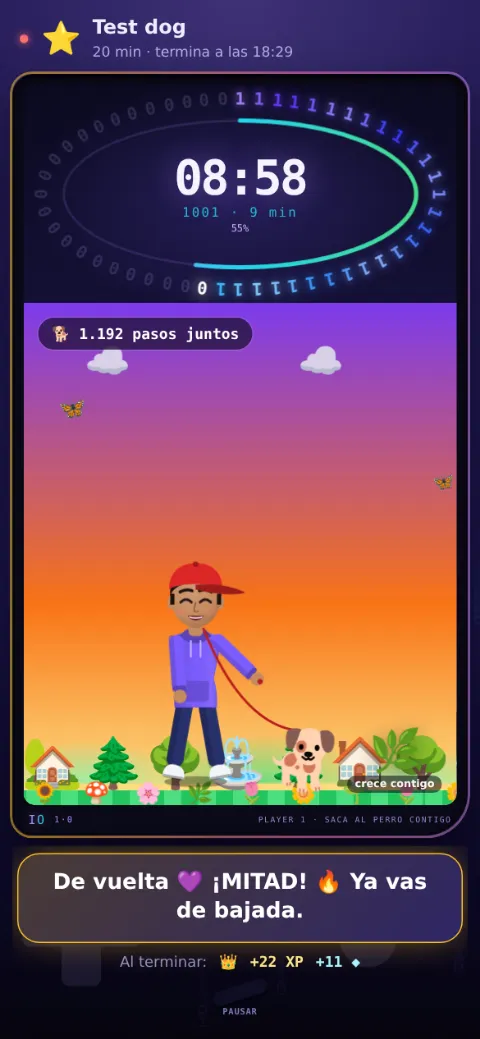
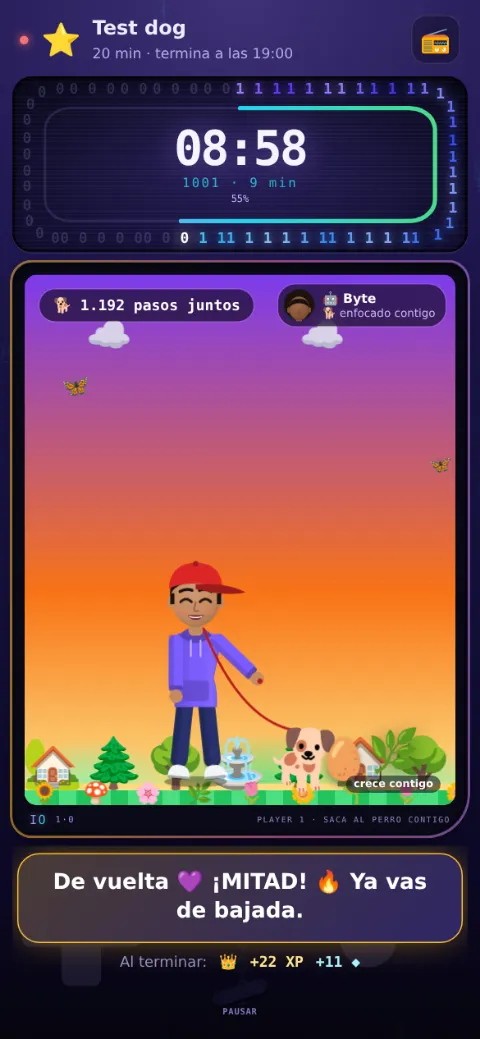
IO: rectangular 1/0 clock on the casing, scene framed as the Game Boy screen, livelier scenes, time-of-day room light
- Clock digits run around a rounded rectangle; the scene sits in its own Game Boy bezel
- Park gets sun and birds, character sways while walking; prayer rays and halo pulse; the water glass goes up and down; everyone breathes
- 'Reduce motion' no longer freezes the scenes, only abrupt effects
- Room shows dawn, day, afternoon and night (window, moon, tint, lamp glow)

Claude-Session: https://claude.ai/code/session_012Cz5XPmCCm3W7C13N57iq3

diff --git a/io/styles.css b/io/styles.css
@@ -510,7 +510,8 @@ code{font-family:var(--mono);font-size:.92em;background:var(--s3);padding:1px 5p
 .toast.show{opacity:1;transform:translate(-50%,0)}
 @media (min-width:560px){.console{margin:0;border-radius:34px 34px 0 0}}
 @media (max-width:370px){.dpad{grid-template-columns:repeat(3,33px);grid-template-rows:repeat(3,33px)}.ab button{width:46px;height:46px}.screen{height:360px}}
-@media (prefers-reduced-motion:reduce){*,*::before,*::after{animation-duration:.01ms!important;animation-iteration-count:1!important;transition-duration:.01ms!important}}
+/* con "reducir movimiento" se apagan los efectos bruscos, pero las escenas siguen vivas y más lentas */
+@media (prefers-reduced-motion:reduce){*:not(.fs):not(.fs *):not(.scene *):not(.lf):not(.bz-io),*:not(.fs *):not(.scene *)::before,*:not(.fs *):not(.scene *)::after{animation-duration:.01ms!important;animation-iteration-count:1!important;transition-duration:.01ms!important}}
 
 /* ================= Game Boy avanzado: bisagra + segunda pantalla ================= */
 .hinge{display:flex;align-items:center;gap:10px;margin:10px -2px 12px;height:22px}
@@ -1428,3 +1429,52 @@ body[data-gb="noche"] .console,body[data-gb="noche"] .focus{background:linear-gr
 body[data-gb="oro"] .console,body[data-gb="oro"] .focus{background:linear-gradient(180deg,#fbbf24 0,#b45309 360px,#78350f 700px,rgba(120,53,15,.5) calc(100% - 160px),rgba(9,9,15,0) 100%)}
 body[data-gb="arcoiris"] .console,body[data-gb="arcoiris"] .focus{background:linear-gradient(180deg,rgba(9,9,15,0),rgba(9,9,15,.4) 60%,#09090f),linear-gradient(90deg,#f472b6,#a78bfa,#22d3ee,#4ade80,#fbbf24,#f472b6);background-size:100% 100%,300% 100%;animation:logoHue 12s linear infinite}
 body[data-gb="oro"] .mid-btns button,body[data-gb="oro"] .ctl-help{color:#3b1d06}
+
+/* reloj rectangular en la carcasa + la escena es la pantalla del Game Boy */
+.fgb .fc-clock{flex-shrink:0;height:clamp(118px,17vh,160px);border-radius:16px;background:radial-gradient(ellipse 70% 90% at 50% 50%,rgba(124,92,255,.22),transparent 72%),linear-gradient(180deg,#0b0a1f,#141035);box-shadow:inset 0 2px 10px rgba(0,0,0,.85),inset 0 0 0 2px rgba(0,0,0,.6),0 1px 0 rgba(255,255,255,.1)}
+.fgb .fc-clock::after{content:'';position:absolute;inset:0;border-radius:inherit;pointer-events:none;background:repeating-linear-gradient(0deg,rgba(255,255,255,.03) 0 1px,transparent 1px 3px)}
+.fgb .fc-clock .fc-time{font-size:clamp(34px,10vw,48px)}
+.fgb-bezel{padding:10px 10px 6px}
+.fgb-screen{box-shadow:inset 0 0 0 2px rgba(0,0,0,.7)}
+.fc-buddies{top:8px}
+@media (max-height:720px){.fgb .fc-clock{height:108px}.fc-buddies{top:8px}}
+/* escenas más vivas: todos respiran, el paseo tiene sol y pájaros, orar brilla, el vaso sube y baja */
+:where(.fs) .av{animation:idleB 3.2s ease-in-out infinite;transform-origin:50% 100%}
+@keyframes idleB{0%,100%{transform:scale(1,1)}50%{transform:scale(1.015,1.025) translateY(-1px)}}
+.bg-park .fs-char{animation:walkSway 1.2s ease-in-out infinite}
+@keyframes walkSway{0%,100%{translate:0 0}25%{translate:-3px -3px}50%{translate:0 0}75%{translate:3px -3px}}
+.fs-run.bg-park .fs-char{animation-duration:.72s}
+.px-sun{position:absolute;right:14%;top:14%;width:54px;height:54px;border-radius:50%;background:radial-gradient(circle,#fff7c2,#fde047 55%,rgba(253,224,71,0) 72%);animation:auraP 4s ease-in-out infinite}
+.sky-day[data-tod="noche"] .px-sun{background:radial-gradient(circle,#f8fafc,#e0e7ff 50%,rgba(224,231,255,0) 70%);box-shadow:none}
+.px-birds{top:22%;--d:26s}.px-birds i{font-size:16px;animation:flap .5s ease-in-out infinite alternate}
+@keyframes flap{to{transform:translateY(-6px) scaleY(.8)}}
+.px-mid{--d:13s}.px-near{--d:5s}
+.fx-rays{animation-duration:16s}
+.fx-rays.r2{animation-duration:24s;animation-direction:reverse;opacity:.6}
+.fx-light{animation:rayPulse 3.5s ease-in-out infinite}
+@keyframes rayPulse{0%,100%{opacity:.55}50%{opacity:1}}
+.fx-halo{position:absolute;left:50%;top:22%;width:120px;height:120px;margin-left:-60px;border-radius:50%;background:radial-gradient(circle,rgba(253,230,138,.55),transparent 65%);animation:auraP 3.5s ease-in-out infinite}
+.fx-word{font-size:15px;animation-duration:8s}
+.fs-pray .arm-l,.fs-pray .arm-r{filter:drop-shadow(0 0 6px rgba(253,230,138,.8))}
+.fs-water .arm-r{animation:drink 3s ease-in-out infinite}
+@keyframes drink{0%,20%,100%{transform:rotate(18deg)}40%,65%{transform:rotate(132deg)}}
+.fs-water .glass{transform-box:fill-box;transform-origin:50% 50%;animation:tilt 3s ease-in-out infinite}
+@keyframes tilt{0%,20%,100%{transform:rotate(0)}40%,65%{transform:rotate(-35deg)}}
+.fx-jug{position:absolute;left:16%;bottom:14px;font-size:34px;animation:floaty 3s ease-in-out infinite}
+.fs-read .arm-r{animation:turnPage 6s ease-in-out infinite}
+@keyframes turnPage{0%,85%,100%{transform:rotate(26deg)}90%{transform:rotate(12deg)}}
+/* la hora del día se nota en el cuarto */
+.tint{position:absolute;inset:0;z-index:4;pointer-events:none;transition:background 2s}
+[data-time="amanecer"] .tint{background:linear-gradient(180deg,rgba(251,146,60,.12),rgba(244,114,182,.06))}
+[data-time="tarde"] .tint{background:linear-gradient(180deg,rgba(249,115,22,.16),rgba(124,58,237,.08))}
+[data-time="noche"] .tint{background:radial-gradient(circle at 60% 14%,rgba(253,230,138,.22),transparent 38%),rgba(8,10,40,.42)}
+[data-time="amanecer"] .win{background:linear-gradient(180deg,#f472b6,#fb923c 55%,#fde68a)}
+[data-time="amanecer"] .sun{top:auto;bottom:12px;left:40%;background:#fdba74;box-shadow:0 0 18px #fb923c}
+[data-time="tarde"] .sun{top:auto;bottom:16px;left:62%;background:#fb923c;box-shadow:0 0 18px #f97316}
+[data-time="noche"] .sun{background:#fef9c3;box-shadow:0 0 12px #fef08a,inset -4px -2px 0 #e5e7eb}
+[data-time="noche"] .v1{filter:brightness(.45)}
+[data-time="noche"] .v2{opacity:1!important;filter:brightness(1.6)}
+[data-time="noche"] .lampc::after{box-shadow:0 14px 70px 34px rgba(253,230,138,.34)}
+[data-time="noche"] .curt i{filter:brightness(.7)}
+.sky-dusk[data-tod="amanecer"],.sky-day[data-tod="amanecer"]{background:linear-gradient(180deg,#f472b6,#fb923c 55%,#fde68a)}
+.sky-room[data-tod="amanecer"]::before{background:linear-gradient(180deg,#f472b6,#fdba74)}

diff --git a/io/scenes.js b/io/scenes.js
@@ -11,7 +11,7 @@ const bubbles = words => words.map((w, i) => `<span class="fx-bub" style="--i:${
 const floaters = (chars, n = 6) => [...Array(n)].map((_, i) => `<i class="fx-fl" style="--i:${i};--x:${10 + (i * 83) % 80}%">${chars[i % chars.length]}</i>`).join('');
 // franja que se repite sin costura para el paisaje en movimiento (parallax)
 const strip = (cls, items) => `<div class="px ${cls}"><div>${items}</div><div>${items}</div></div>`;
-const PARK = strip('px-cloud', '<i>☁</i><i>☁</i><i>☁</i>')
+const PARK = '<div class="px-sun"></div>' + strip('px-birds', '<i>🐦</i><i></i><i>🕊</i><i></i>') + strip('px-cloud', '<i>☁</i><i>☁</i><i>☁</i>')
   + '<div class="px-hills"></div>'
   + strip('px-mid', '<i>🌳</i><i>🏡</i><i>🌲</i><i>🌳</i><i>⛲</i><i>🌲</i><i>🏠</i><i>🌳</i><i>🏪</i>')
   + strip('px-near', '<i>🌷</i><i>🌼</i><i>🌿</i><i>🌻</i><i>🍄</i><i>🌸</i><i>🌿</i><i>🌷</i><i>🌼</i><i>🌱</i>');
@@ -29,7 +29,7 @@ const SCENES = {
   float: { mood: 'calm', sit: 'cross', sky: 'dusk', back: '<div class="fx-aura"></div><div class="fx-orbit"><i>✦</i><i>✧</i><i>·</i></div>', front: '<div class="fx-cushion"></div>' + floaters(['✦', '·', '✧'], 5) },
   breathe: { mood: 'calm', sky: 'dusk', back: '<div class="fx-breath"><span class="in">Inhala</span><span class="out">Exhala</span></div>' },
   yoga: { mood: 'calm', sky: 'dawn', back: '<div class="fx-sun"></div><div class="fx-mat"></div>' },
-  pray: { mood: 'calm', sit: 'kneel', sky: 'dusk', back: '<div class="fx-rays"></div><div class="fx-light"></div><span class="fx-dove">🕊</span><span class="fx-candle l">🕯</span><span class="fx-candle r">🕯</span>', front: '<div class="fx-cushion"></div>' + ['gracias', 'paz', 'fe', 'amor', 'luz'].map((w, i) => `<i class="fx-word" style="--i:${i};--x:${12 + i * 18}%">${w}</i>`).join('') },
+  pray: { mood: 'calm', sit: 'kneel', sky: 'dusk', back: '<div class="fx-rays"></div><div class="fx-rays r2"></div><div class="fx-light"></div><div class="fx-halo"></div><span class="fx-dove">🕊</span><span class="fx-candle l">🕯</span><span class="fx-candle r">🕯</span>', front: '<div class="fx-cushion"></div>' + ['gracias', 'paz', 'fe', 'amor', 'luz', 'gracias', 'esperanza'].map((w, i) => `<i class="fx-word" style="--i:${i};--x:${12 + i * 18}%">${w}</i>`).join('') },
   unplug: { mood: 'happy', sit: true, sky: 'dawn', holdR: (x, y) => T('🍵', x - 4, y - 5, 26, -10), back: '<span class="fx-phone">📵</span>' + FLIERS('🦋'), front: CHAIR_FRONT + floaters(['🍃', '🍂'], 4) },
   sleep: { mood: 'tired', sky: 'night', back: '<div class="fx-moon"></div><div class="fx-bed"></div>', front: '<span class="fx-z" style="--i:0">z</span><span class="fx-z" style="--i:1">z</span><span class="fx-z" style="--i:2">Z</span>' },
   flex: { mood: 'excited', sky: 'gym', holdL: dumbbell, holdR: dumbbell, back: '<div class="fx-rack">🏋 🥊 🏋</div>', front: floaters(['💦', '💪', '🔥'], 4), move: 'press' },
@@ -39,7 +39,7 @@ const SCENES = {
   swim: { mood: 'excited', sky: 'pool', back: strip('px-fish', '<i>🐠</i><i>🐟</i><i>🐡</i><i>🐠</i>'), front: '<div class="fx-water"><i></i><i></i></div><div class="fx-lane"></div>' + floaters(['○', '◦'], 5) },
   eat: { mood: 'happy', sky: 'room', holdR: (x, y) => T('🍴', x - 2, y - 6, 16, -30), front: '<div class="fx-table"><span>🥗</span><em>🥤</em></div>' },
   cook: { mood: 'happy', sky: 'room', holdR: (x, y) => T('🍳', x - 12, y - 2, 32, -20, 'pan'), front: '<div class="fx-stove"><span class="fx-fire">🔥</span><span class="fx-pot">🍲</span></div>' + floaters(['♨', '🥕', '🧅', '♨'], 4) },
-  water: { mood: 'happy', sky: 'day', holdR: (x, y) => T('🥤', x - 2, y - 9, 26, 0), front: floaters(['💧'], 5) },
+  water: { mood: 'happy', sky: 'day', holdR: (x, y) => T('🥛', x - 2, y - 9, 30, 0, 'glass'), back: '<div class="fx-jug">🫗</div>', front: floaters(['💧', '✨'], 6) },
   clean: { mood: 'happy', sky: 'room', holdR: (x, y) => T('🧹', x - 4, y + 14, 54, 150), front: '<div class="fx-dust"><i></i><i></i><i></i></div><div class="fx-shine">' + '<i>✨</i>'.repeat(6) + '</div>' },
   music: { mood: 'excited', sky: 'stage', holdL: (x, y) => T('🎸', x + 16, y - 8, 56, 40), back: '<div class="fx-spot l"></div><div class="fx-spot r"></div>', front: '<div class="fx-eq">' + '<i></i>'.repeat(9) + '</div>' + floaters(['♪', '♫', '♬'], 6) },
   draw: { mood: 'happy', sky: 'room', holdL: (x, y) => T('🎨', x + 8, y - 6, 30, 30), holdR: (x, y) => T('🖌', x - 4, y - 10, 18, -30, 'brush'), back: '<div class="fx-easel"><i></i></div>' },
@@ -50,7 +50,7 @@ const SCENES = {
 export function sceneHTML(act, look, wear = {}, { big = false, pet = null } = {}) {
   const key = SCENES[act] ? act : 'jump'; const sc = SCENES[key];
   const wearCls = ['head', 'face'].map(s => (wear[s] ? 'wear-' + wear[s] : '')).join(' ');
-  const h = new Date().getHours(); const tod = h >= 6 && h < 17 ? 'dia' : h >= 17 && h < 20 ? 'tarde' : 'noche';
+  const h = new Date().getHours(); const tod = h >= 5 && h < 8 ? 'amanecer' : h >= 8 && h < 17 ? 'dia' : h >= 17 && h < 19 ? 'tarde' : 'noche';
   const sit = sc.sit === true ? ' sit' : sc.sit ? ' sit sit-' + sc.sit : '';
   return `<div class="fs fs-${key}${sc.park ? ' bg-park' : ''}${big ? ' big' : ''}${sit} sky-${sc.sky || 'dusk'}" data-mood="${sc.mood}" data-tod="${tod}"${sc.move ? ` data-move="${sc.move}"` : ''}>
     <div class="fs-bg">${sc.park ? PARK : ''}</div>

diff --git a/io/focus.js b/io/focus.js
@@ -75,10 +75,10 @@ export function open(id, { onClaim, onClose } = {}) {
     <canvas class="fc-rain" id="fcRain" aria-hidden="true"></canvas>
     <div class="fgb">
       <div class="fgb-top"><span class="led on"></span><span class="fc-emoji">${esc(h.emoji)}</span><div><b>${esc(h.nombre)}</b><small id="fcSub"></small></div><button class="fgb-radio" id="fcRadio" aria-label="Radio" hidden>📻</button></div>
+      <div class="fc-clock" id="fcClock"><canvas id="fcRing" aria-hidden="true"></canvas>
+        <div class="fc-center"><div class="fc-time" id="fcTime">--:--</div><div class="fc-bin" id="fcBin" title="Minutos restantes en binario"></div><div class="fc-pct" id="fcPct"></div></div></div>
       <div class="fgb-bezel">
         <div class="fgb-screen">
-          <div class="fc-clock" id="fcClock"><canvas id="fcRing" aria-hidden="true"></canvas>
-            <div class="fc-center"><div class="fc-time" id="fcTime">--:--</div><div class="fc-bin" id="fcBin" title="Minutos restantes en binario"></div><div class="fc-pct" id="fcPct"></div></div></div>
           ${sceneHTML(act, cfg.avatar, W.game().wear, { big: true, pet: Pet.get() })}
           <div class="fc-buddies" id="fcBud"></div>
         </div>
@@ -173,29 +173,34 @@ function coach(el, rem, dur) {
 }
 /* reloj ovalado: los 1 y 0 recorren un óvalo a lo ancho de la pantalla */
 let OV = null;
+/** Perímetro de un rectángulo con esquinas redondeadas, empezando arriba al centro y en sentido del reloj. */
 function ovalTable(a, b) {
-  const M = 720, pts = []; let L = 0, px = 0, py = -b;
-  for (let i = 0; i <= M; i++) { const t = -Math.PI / 2 + i / M * Math.PI * 2; const x = a * Math.cos(t), y = b * Math.sin(t); if (i) L += Math.hypot(x - px, y - py); pts.push([x, y, L, t]); px = x; py = y; }
+  const r = Math.min(a, b) * .38; const pts = []; let L = 0, prev = null;
+  const push = (x, y) => { if (prev) L += Math.hypot(x - prev[0], y - prev[1]); pts.push([x, y, L, 0]); prev = [x, y]; };
+  const seg = (x0, y0, x1, y1, n = 40) => { for (let i = 0; i <= n; i++) push(x0 + (x1 - x0) * i / n, y0 + (y1 - y0) * i / n); };
+  const arc = (cx, cy, a0, a1, n = 16) => { for (let i = 0; i <= n; i++) { const t = a0 + (a1 - a0) * i / n; push(cx + r * Math.cos(t), cy + r * Math.sin(t)); } };
+  seg(0, -b, a - r, -b); arc(a - r, -b + r, -Math.PI / 2, 0); seg(a, -b + r, a, b - r); arc(a - r, b - r, 0, Math.PI / 2);
+  seg(a - r, b, -a + r, b); arc(-a + r, b - r, Math.PI / 2, Math.PI); seg(-a, b - r, -a, -b + r); arc(-a + r, -b + r, Math.PI, Math.PI * 1.5); seg(-a + r, -b, 0, -b);
   return { pts, L };
 }
 function ovalAt(f) {
   const { pts, L } = OV.tab; const target = f * L; let lo = 0, hi = pts.length - 1;
   while (lo < hi) { const m = (lo + hi) >> 1; if (pts[m][2] < target) lo = m + 1; else hi = m; }
-  const [x, y, , t] = pts[lo]; return [x, y, Math.atan2(OV.b * Math.cos(t), -OV.a * Math.sin(t))];
+  const [x, y] = pts[lo]; return [x, y, 0];
 }
 function drawRing(p) {
   const c = $('fcRing'); const box = $('fcClock'); if (!c || !box) return;
   const dpr = devicePixelRatio || 1; const W = box.clientWidth, Hh = box.clientHeight;
   if (!OV || OV.W !== W || OV.H !== Hh) {
     c.width = Math.round(W * dpr); c.height = Math.round(Hh * dpr); c.style.width = W + 'px'; c.style.height = Hh + 'px';
-    const a = (W / 2 - 16) * dpr, b = (Hh / 2 - 12) * dpr; const fs = Math.max(10, Math.min(14, Hh * .08)) * dpr;
-    OV = { W, H: Hh, a, b, fs, tab: ovalTable(a, b) }; OV.N = Math.floor(OV.tab.L / (fs * 1.05));
+    const a = (W / 2 - 12) * dpr, b = (Hh / 2 - 11) * dpr; const fs = Math.max(10, Math.min(13, Hh * .085)) * dpr;
+    OV = { W, H: Hh, a, b, fs, tab: ovalTable(a, b) }; OV.N = Math.floor(OV.tab.L / (fs * 1.1));
     OV.ia = a - fs * 1.2; OV.ib = b - fs * 1.2;
   }
   const x = c.getContext('2d'); const { a, b, fs, N } = OV;
   x.clearRect(0, 0, c.width, c.height); x.save(); x.translate(c.width / 2, c.height / 2);
   // pista y progreso por dentro del óvalo
-  x.lineWidth = 2 * dpr; x.strokeStyle = 'rgba(167,139,250,.16)'; x.beginPath(); x.ellipse(0, 0, OV.ia, OV.ib, 0, 0, Math.PI * 2); x.stroke();
+  x.lineWidth = 2 * dpr; x.strokeStyle = 'rgba(167,139,250,.16)'; x.beginPath(); OV.tab.pts.forEach(([px, py], i) => { const X = px * OV.ia / a, Y = py * OV.ib / b; i ? x.lineTo(X, Y) : x.moveTo(X, Y); }); x.stroke();
   const grad = x.createLinearGradient(-a, 0, a, 0); grad.addColorStop(0, '#a78bfa'); grad.addColorStop(.5, '#22d3ee'); grad.addColorStop(1, '#4ade80');
   x.strokeStyle = grad; x.lineWidth = 3.5 * dpr; x.lineCap = 'round'; x.beginPath();
   const steps = Math.max(2, Math.floor(p * 180));

diff --git a/io/index.html b/io/index.html
@@ -54,6 +54,7 @@
             <div class="elev-frame"><div class="elev-doors"><i></i><i></i></div></div>
             <div class="door-hint" id="doorHint" hidden>▲</div>
           </div>
+          <div class="tint" aria-hidden="true"></div>
           <div class="objs" id="objs"></div>
           <button class="petc" id="petc" aria-label="Tu compañero" hidden><span class="pet-b" id="petB"></span><span class="pet-e" id="petE"></span></button>
           <div class="hero" id="hero"><span class="prop" id="prop"></span><div class="hero-in" id="heroIn" data-mood="neutral"></div></div>

diff --git a/io/engine.js b/io/engine.js
@@ -66,7 +66,7 @@ export function render() {
   scene.classList.toggle('open', f.open);
   scene.style.setProperty('--hue', (f.world.hue || 0) + 'deg');
   const h = new Date().getHours();
-  scene.dataset.time = h >= 6 && h < 17 ? 'dia' : h >= 17 && h < 20 ? 'tarde' : 'noche';
+  scene.dataset.time = h >= 5 && h < 8 ? 'amanecer' : h >= 8 && h < 17 ? 'dia' : h >= 17 && h < 19 ? 'tarde' : 'noche';
   $('elevNum').textContent = n;
   $('floorTag').textContent = `${n === 1 ? 'PISO 1' : 'PISO ' + n} · ${f.name.toUpperCase()}`;
   // objetos

diff --git a/io/sw.js b/io/sw.js
@@ -1,5 +1,5 @@
 /* IO — service worker: la app funciona sin conexión. */
-const VERSION = 'io-v11.1.0';
+const VERSION = 'io-v11.2.0';
 const SHELL = [
   './', 'index.html', 'styles.css', 'app.js', 'store.js', 'world.js', 'habits.js', 'engine.js', 'focus.js', 'onboarding.js', 'avatar.js', 'ui.js', 'lower.js', 'ranking.js', 'config.js', 'scenes.js', 'radio.js', 'remind.js', 'share.js', 'pet.js', 'social.js', 'coach.js', 'weather.js',
   'manifest.webmanifest', 'icons/icon.svg', 'icons/icon-192.png', 'icons/icon-512.png',
